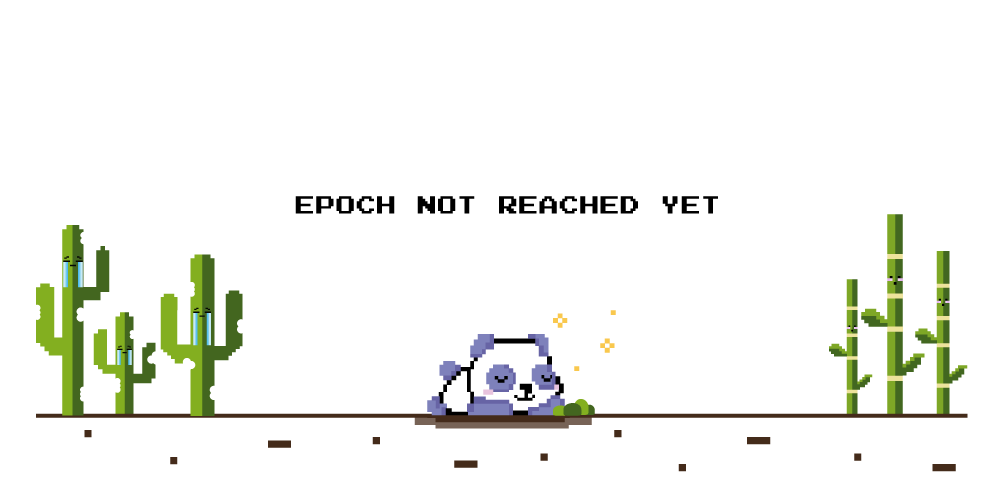
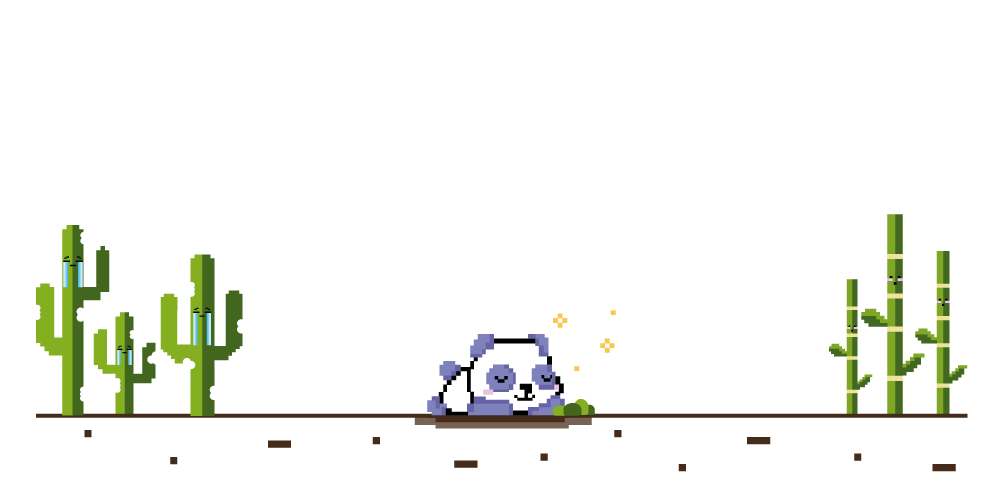
change color of the epoch not reached yet text in the dark mode

Changed region(s): [[0.279, 0.39, 0.713, 0.45]]

diff --git a/packages/client/styles/globals.css b/packages/client/styles/globals.css
@@ -83,6 +83,14 @@
         overflow: hidden;
     }
 
+    .panda-text{
+        position: relative;
+        top: -10rem;
+        left: 3rem;
+        width: 20rem;
+        height: 5rem;
+    }
+
     .cloud {
         position: absolute;
         animation: slideUp 3s ease infinite both;
@@ -143,6 +151,14 @@
     }
 
     @media (min-width: 640px) {
+        .panda-text{
+            position: relative;
+            top: -15rem;
+            left: 10rem;
+            width: 25rem;
+            height: 5rem;
+        }
+
         .cloud.one {
             top: -3rem;
             left: calc(50% - 4.5rem);
@@ -185,6 +201,15 @@
     }
 
     @media (min-width: 768px) {
+        
+        .panda-text{
+            position: relative;
+            top: -20rem;
+            left: 17rem;
+            width: 30rem;
+            height: 7.5rem;
+        }
+        
         .cloud.one {
             top: -4rem;
             left: calc(50% - 6.5rem);

diff --git a/packages/client/components/layouts/EpochAnimation.tsx b/packages/client/components/layouts/EpochAnimation.tsx
@@ -1,6 +1,10 @@
 import React from 'react';
 
-const EpochAnimation = () => {
+type Props = {
+    darkMode: boolean
+}
+
+const EpochAnimation = ({darkMode}: Props) => {
     return (
         <div className='animation-container'>
             <div className='panda-container'>
@@ -11,6 +15,7 @@ const EpochAnimation = () => {
                 <img src='/static/images/epoch_animation/4.png' alt='Image 5' className='panda-sleep-one' />
                 <img src='/static/images/epoch_animation/4.png' alt='Image 6' className='panda-sleep-two' />
                 <img src='/static/images/epoch_animation/3.png' alt='Image 7' className='panda-tumbleweed' />
+                <img src={darkMode ? "/static/images/epoch_animation/text-white.png" : "/static/images/epoch_animation/text.png"} alt="Image 8" className="panda-text" />
             </div>
         </div>
     );

diff --git a/packages/client/pages/epoch/[id].tsx b/packages/client/pages/epoch/[id].tsx
@@ -339,7 +339,7 @@ const EpochComponent = () => {
                     <div>{getContentSlots()}</div>
                 </div>
             ) : (
-                animation && <EpochAnimation />
+                animation && <EpochAnimation darkMode={themeMode?.darkMode as boolean}/>
             )}
         </Layout>
     );
